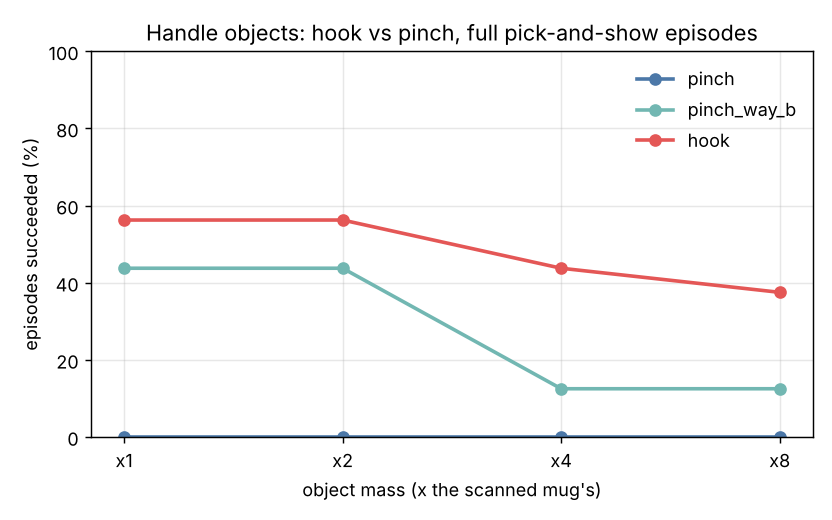
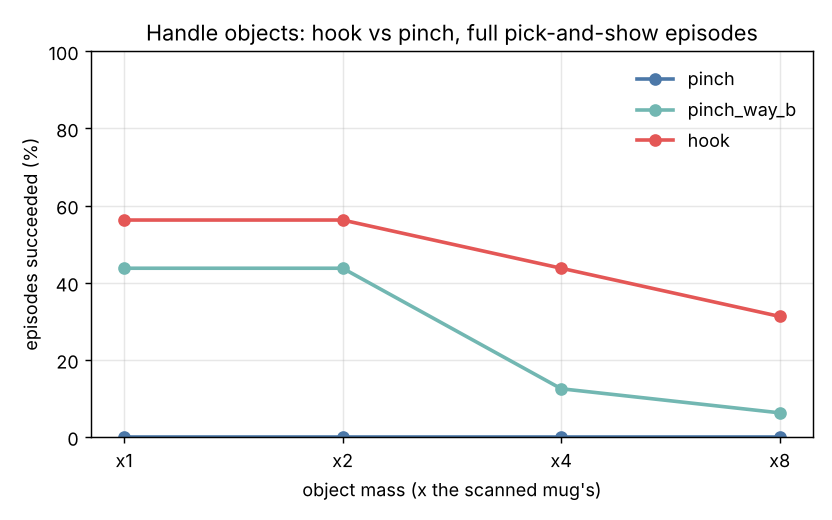
Hook vs pinch at the true 2 kg (x8): hook 31 %, pinch 6 % with a 1280x960 scanner; records keep the hook's collisions
Claude-Session: https://claude.ai/code/session_018n9sqndQo1kAvmaLx8LGsL

Changed region(s): [[0.6875, 0.4923, 0.9688, 0.6154], [0.6875, 0.7385, 0.9688, 0.8]]

diff --git a/scripts/hook_episodes.py b/scripts/hook_episodes.py
@@ -83,7 +83,7 @@ def run_hook(sc: Scenario, hooks: list[dict], tries: int = 5) -> dict:
         return {**rec, "success": bool(r.success), "reason": reason, "kind": hooks[o.hook]["kind"],
                 "pred_angle_deg": round(o.vis.angle_deg, 1), "pred_pixels": round(o.vis.pixels, 1),
                 "hang_tilt_deg": round(o.hang.tilt_deg, 1), "qr_ok": bool(r.qr_ok), "held": bool(r.held),
-                "slip_mm": round(r.slip_mm, 1), "slip_deg": round(r.slip_deg, 1)}
+                "slip_mm": round(r.slip_mm, 1), "slip_deg": round(r.slip_deg, 1), "collisions": r.collisions}
     return {**rec, "success": False, "reason": f"plan: {why}"}
 
 

diff --git a/README.md b/README.md
@@ -785,7 +785,8 @@ decides how it sits on the finger, so the planner works the other way round.
    report) puts the fingertip within 0.1 mm.
 
 A hook is judged by the same scanner as a pinch: QR decoded, object still held, no unexpected
-contact. The swing is reported but not judged, since the object is meant to hang. An input
+contact. The swing is reported but not judged, since the object is meant to hang. Heavier
+objects are made by scaling mass and inertia (× 8 = 2 kg; the Franka's payload is 3 kg). An input
 shaper against the swing (crane control: the motion split into two halves, the second delayed by
 half the swing period) changed neither the results nor the mug's pose at the scanner on 16
 scenes: after a 2 s hold the swing has died down. It stays in the code, switched off.
@@ -798,14 +799,16 @@ mug in any scene):
 | Scanner | Policy | × 1 (0.25 kg) | × 2 | × 4 | × 8 (2 kg) |
 |---|---|---|---|---|---|
 | 640 × 480 | way B pinch | 25 % | 6 % | 0 % | 0 % |
-| 640 × 480 | hook | 25 % | 25 % | 19 % | 25 % |
-| 1280 × 960 | way B pinch | 44 % | 44 % | 12 % | 12 % |
-| 1280 × 960 | hook | **56 %** | **56 %** | **44 %** | **38 %** |
+| 640 × 480 | hook | 25 % | 25 % | 19 % | 12 % |
+| 1280 × 960 | way B pinch | 44 % | 44 % | 12 % | 6 % |
+| 1280 × 960 | hook | **56 %** | **56 %** | **44 %** | **31 %** |
 
 ![hook vs pinch](media/hook_episodes_cloud_s2.png)
 
-- **The hook does not care about the weight; the pinch does.** At 8 × the pinch slips in 6
-  scenes and drops the mug in 7.
+- **The hook copes with the weight much better than the pinch.** At 2 kg the pinch drops the
+  mug in 10 of 16 scenes and slips in 4 more. The hook loses some too: the heavier mug swings
+  and sags further on the finger, and in 5 scenes it touches the arm on the way (the collision
+  check allows ± 12° of swing).
 - **The 640 × 480 scanner limits both policies.** A 3 cm code hanging at a tilt is about 50–55 px
   across, and OpenCV decodes it on some frames and not others: re-running the same episode with
   a tiny change flipped the result both ways, and the unread images I checked all decoded once
@@ -813,8 +816,7 @@ mug in any scene):
   a 1280 × 960 scanner no failure is a QR failure.
 - **What the hook still misses**: in 3 of 16 scenes no hook passes the checks (the handle can
   only be threaded from two directions, and the hanging tilt can turn the code away from a high
-  or low scanner), and in 2–5 no carry keeps the fingers up and the swinging mug clear. Also, 1–2
-  collisions of the swinging mug with the arm.
+  or low scanner), and in 2–5 no carry keeps the fingers up and the swinging mug clear.
 - The other two mugs cannot be hooked from the table: the blue one's handle hole is too tight
   (no fit lifts it), and on the porcelain one every fitting finger pose puts the 20 cm-wide hand
   through the table (its handle sits low).
